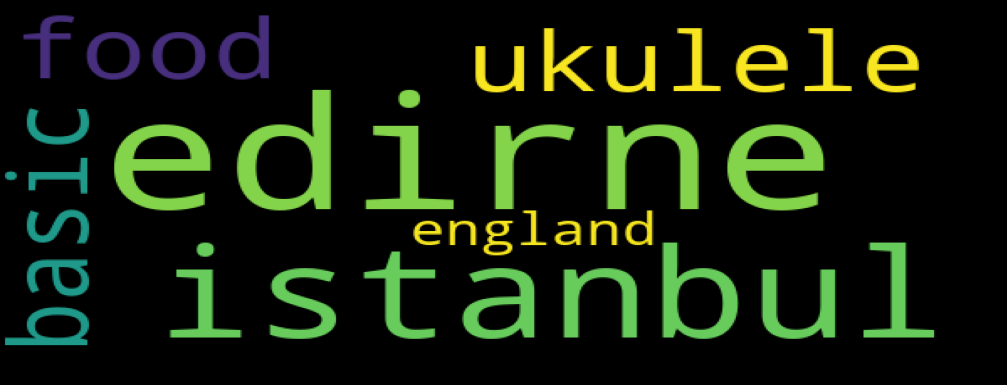
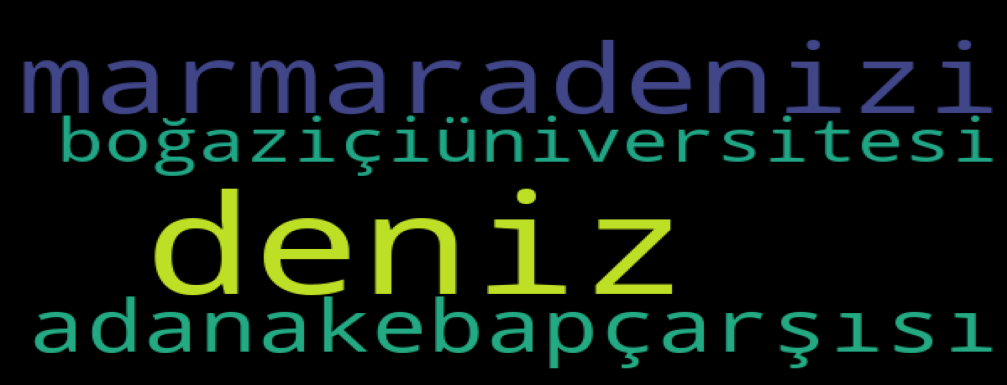
Wordcloud error for texts solved #271

diff --git a/social/templates/social/searchlogwordcloud.html b/social/templates/social/searchlogwordcloud.html
@@ -7,7 +7,11 @@
             <p></p>
             <h5 style="text-align:center;">Search logs Wordcloud for Services!</h5>
             <p></p>
-            <img width="600" height="600" src="/media/searchlogwordcloud.png"/>
+            {% if showCloud %}
+                <img width="600" height="600" src="/media/searchlogwordcloud.png"/>
+            {% else %}
+                <p style="text-align:center;">No search done yet.</p>
+            {% endif %}
         </div>
     </div>
 {% endblock content %}

diff --git a/social/views.py b/social/views.py
@@ -1338,9 +1338,10 @@ class ServiceSearch(LoginRequiredMixin, View):
             # do not change the line below or do not remove from this else block
             # if you write separated sorting code, the code below should be together with search result 
             # but not with sorting to not duplicate the log
-            if query != "":
-                searchLog = Search.objects.create(query=query, searchType="service", resultCount=len(services_sorted),
-                                                  userId=request.user)
+            if query != None:
+                if query.strip() != "":
+                    searchLog = Search.objects.create(query=query.replace(" ", ""), searchType="service", resultCount=len(services_sorted),
+                                                    userId=request.user)
             # end of the obligation
 
         services_count = len(services_sorted)
@@ -1486,9 +1487,9 @@ class EventSearch(View):
         # do not change the line below or do not remove from this block
         # if you write separated sorting code, the code below should be together with search result 
         # but not with sorting to not duplicate the log
-        if query != "":
-            searchLog = Search.objects.create(query=query, searchType="event", resultCount=events_count,
-                                              userId=request.user)
+        if query != None:
+            if query.strip() != "":
+                searchLog = Search.objects.create(query=query.replace(" ", ""), searchType="event", resultCount=events_count, userId=request.user)
         # end of the obligation
 
         context = {
@@ -1536,19 +1537,23 @@ class SearchLogListZero(LoginRequiredMixin, View):
 class SearchLogWordCloud(LoginRequiredMixin, View):
     def get(self, request, *args, **kwargs):
         searchLogsServices = Search.objects.filter(searchType="service")
+        showCloud = False
 
         logList = []
         for log in searchLogsServices:
-            logList.append(log.query)
-        unique_string = (" ").join(logList)
-        wordcloud = WordCloud(width=600, height=300).generate(unique_string)
-        plt.figure(figsize=(13, 5))
-        plt.imshow(wordcloud, aspect="auto")
-        plt.axis("off")
-        plt.savefig('media/searchlogwordcloud.png', dpi=100, bbox_inches='tight', pad_inches=0)
+            logList.append(log.query.replace(" ", ""))
+
+        if len(logList) > 0:
+            unique_string = (" ").join(logList)
+            wordcloud = WordCloud(width=600, height=300).generate(unique_string)
+            plt.figure(figsize=(13, 5))
+            plt.imshow(wordcloud, aspect="auto")
+            plt.axis("off")
+            plt.savefig('media/searchlogwordcloud.png', dpi=100, bbox_inches='tight', pad_inches=0)
+            showCloud = True
 
         context = {
-
+            'showCloud': showCloud
         }
         return render(request, 'social/searchlogwordcloud.html', context)
 
